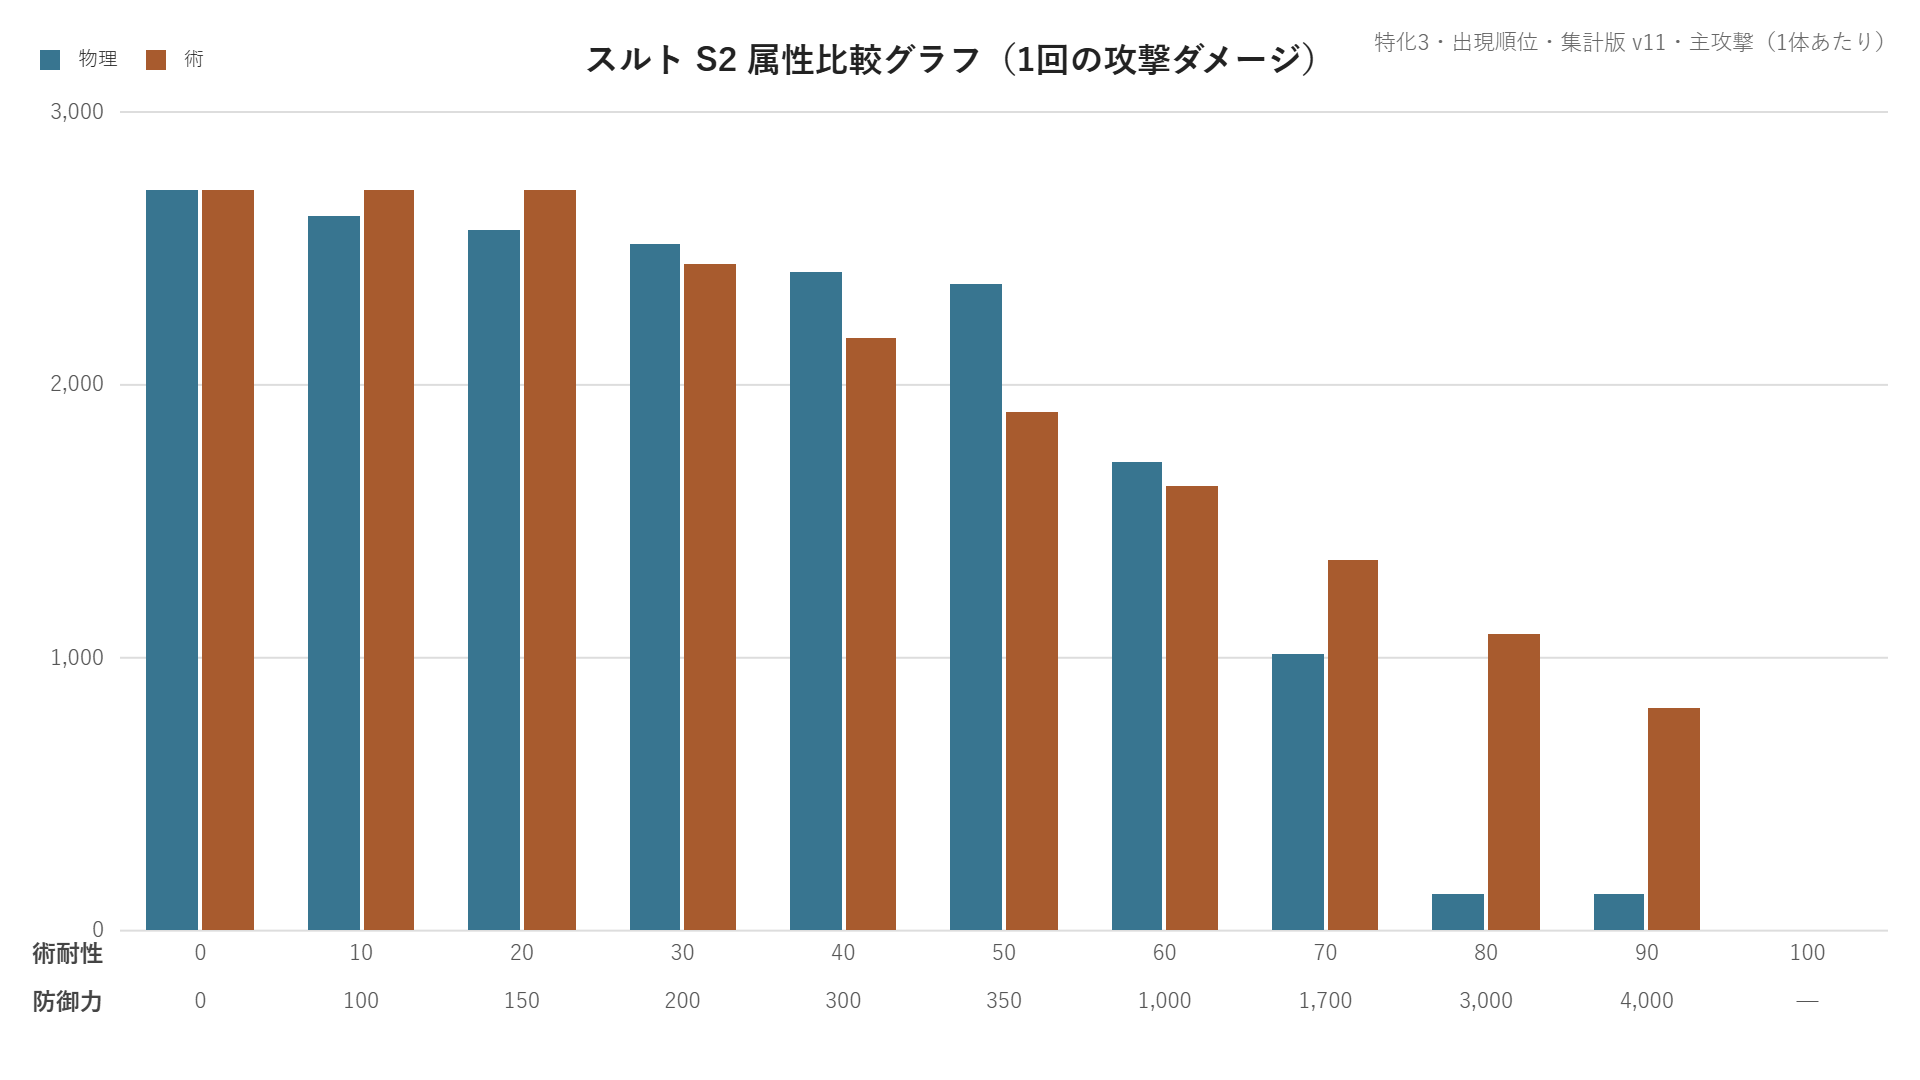
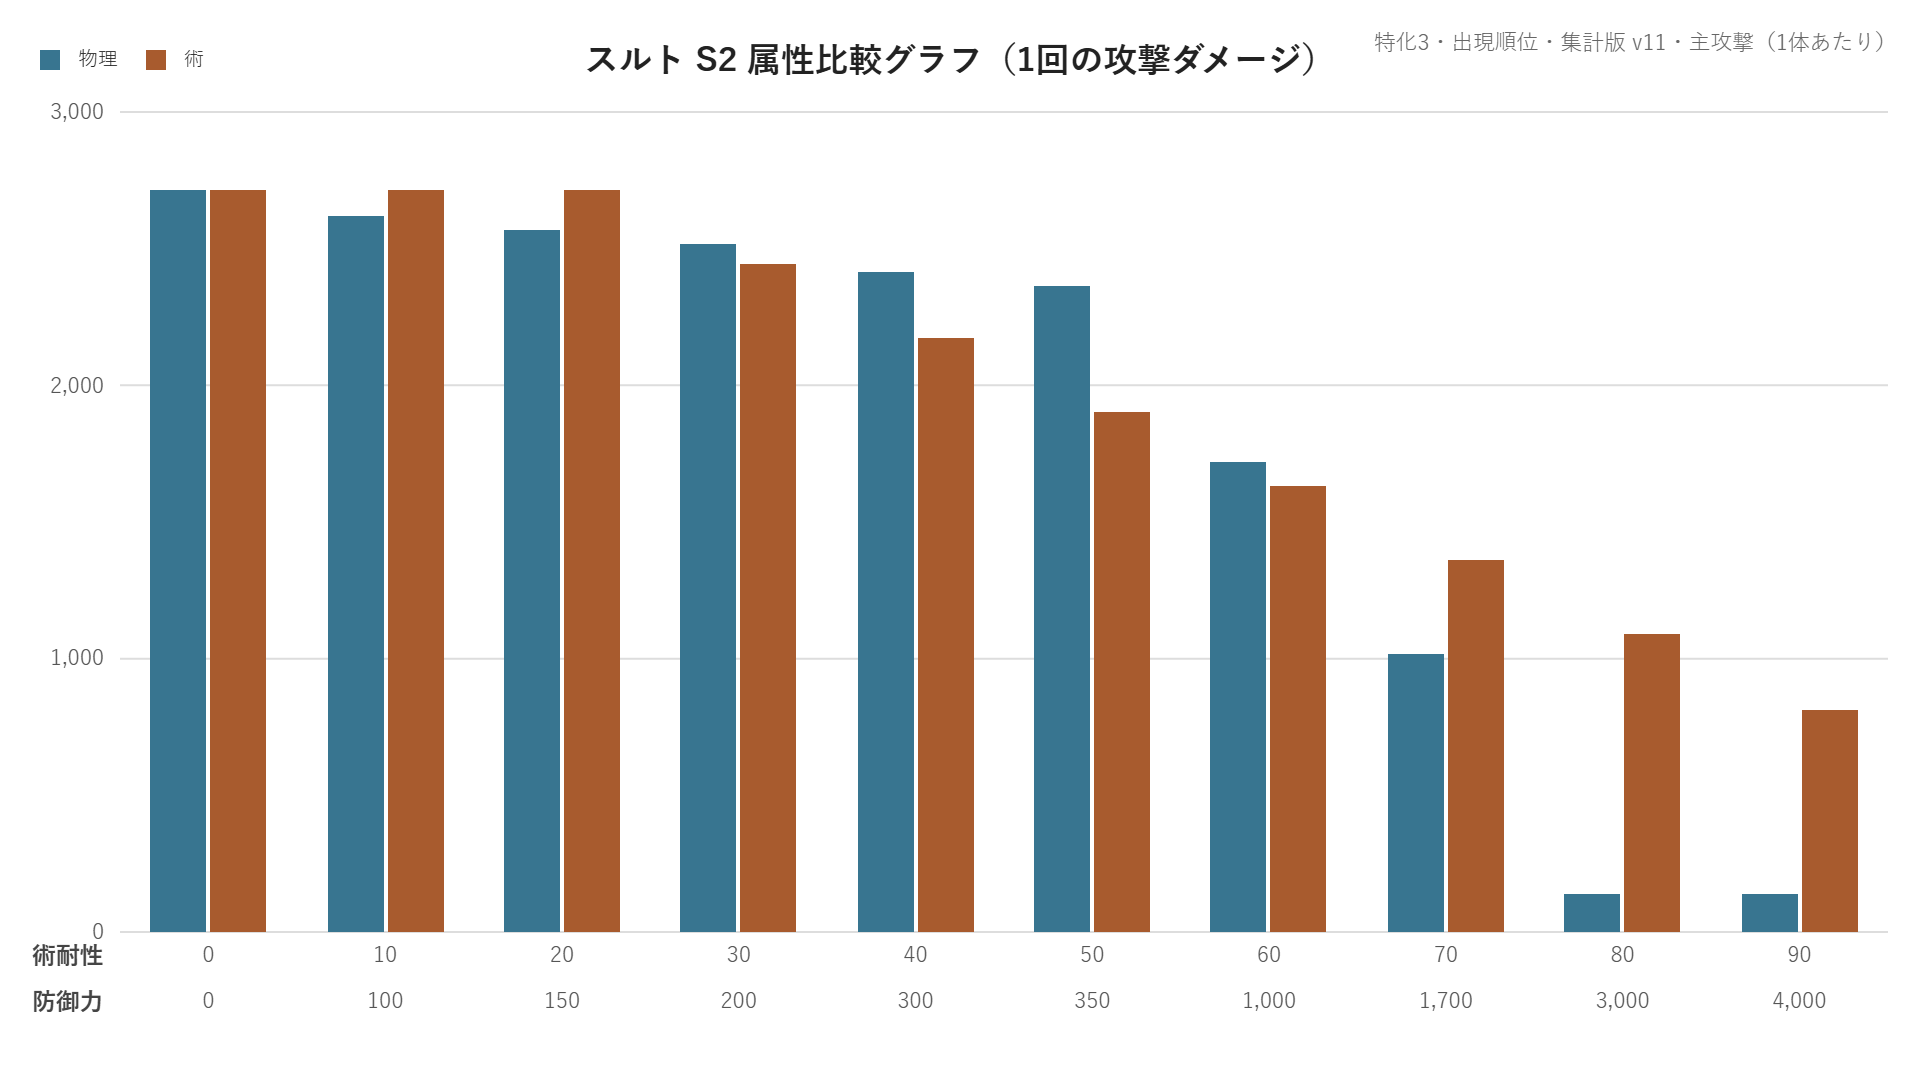
Omit unmatched resistance columns from DC3 charts

diff --git a/src/components/DamageCalculatorThreeAttributeRankChart.tsx b/src/components/DamageCalculatorThreeAttributeRankChart.tsx
@@ -35,12 +35,14 @@ export function DamageCalculatorThreeAttributeRankLegend({ chartType = 'line', f
   </ul>
 }
 
-function describeRow({ resistance, defense, physical, arts }: DamageThreeAttributeRankRow, showRatings = false) {
+type PairedRankRow = DamageThreeAttributeRankRow & { defense: number }
+
+function describeRow({ resistance, defense, physical, arts }: PairedRankRow, showRatings = false) {
   const resistanceRating = showRatings ? getEnemyStatRating('magicResistance', resistance) : null
   const defenseRating = showRatings ? getEnemyStatRating('defense', defense) : null
   return [
     ['術耐性', STAT.format(resistance) + (resistanceRating ? `（評価 ${resistanceRating}）` : '')],
-    ['防御力', defense === null ? '—' : STAT.format(defense) + (defenseRating ? `（評価 ${defenseRating}）` : '')],
+    ['防御力', STAT.format(defense) + (defenseRating ? `（評価 ${defenseRating}）` : '')],
     ['物理', physical === null ? '—' : DAMAGE.format(physical)],
     ['術', arts === null ? '—' : DAMAGE.format(arts)],
   ] as const
@@ -48,7 +50,7 @@ function describeRow({ resistance, defense, physical, arts }: DamageThreeAttribu
 
 function AttributeRankRatingRow({ label, stat, series, values, width }: {
   label: string; stat: RankBandStat; series: typeof ATTRIBUTES[number][0]
-  values: readonly (number | null)[]; width: number
+  values: readonly number[]; width: number
 }) {
   return <>
     <span className="damage-three-attribute-rank-chart-axis-label damage-three-attribute-rank-chart-rating-label"
@@ -57,13 +59,11 @@ function AttributeRankRatingRow({ label, stat, series, values, width }: {
       aria-hidden="true" focusable="false">
       <StatRankStrip bands={getColumnStatRankBands(stat, values)} left={0} right={width} top={0}
         height={RATING_ROW_HEIGHT} showTooltips={false} />
-      {values.map((value, index) => value === null && <text key={index} className="stat-rank-strip-label"
-        x={`${(index + 0.5) / values.length * 100}%`} y={RATING_ROW_HEIGHT / 2 + 4} textAnchor="middle">—</text>)}
     </svg>
   </>
 }
 
-export function DamageCalculatorThreeAttributeRankChart({ rows, chartType = 'line', showRatings = false, imageHeight }: {
+export function DamageCalculatorThreeAttributeRankChart({ rows: allRows, chartType = 'line', showRatings = false, imageHeight }: {
   rows: readonly DamageThreeAttributeRankRow[]
   chartType?: DamageThreeAttributeRankChartType
   showRatings?: boolean
@@ -71,6 +71,7 @@ export function DamageCalculatorThreeAttributeRankChart({ rows, chartType = 'lin
 }) {
   const plotRef = useRef<HTMLDivElement>(null)
   const [plotWidth, setPlotWidth] = useState(0)
+  const rows = allRows.filter((row): row is PairedRankRow => row.defense !== null)
   const hasRows = rows.length > 0
   useLayoutEffect(() => {
     const plot = plotRef.current
@@ -155,7 +156,7 @@ export function DamageCalculatorThreeAttributeRankChart({ rows, chartType = 'lin
         </div>
         <span className="damage-three-attribute-rank-chart-axis-label">防御力</span>
         <div className="damage-three-attribute-rank-chart-defense" aria-hidden="true">
-          {rows.map(row => <span key={row.resistance}>{row.defense === null ? '—' : STAT.format(row.defense)}</span>)}
+          {rows.map(row => <span key={row.resistance}>{STAT.format(row.defense)}</span>)}
         </div>
       </div>
     </div>

diff --git a/docs/chart-image/README.md b/docs/chart-image/README.md
@@ -291,9 +291,9 @@ const baseFilename = createChartImageFilename(prefix, parts)
 
 [DC3属性比較](../../src/components/DamageCalculatorThreeAttributePage.tsx)も共通フレームを使う。画面で選んだゲーム内評価の範囲、出現順位の折れ線、出現順位の集合棒を保存する。出現順位では術耐性の真下に対応する防御力を置き、集計版を画像とファイル名に記載する。ファイル名には折れ線か集合棒かも記載する。
 
-出現順位で「評価表示」をオンにすると、スルトS3・GGターゲット切替2と共通の [StatRankStrip](../../src/components/StatRankStrip.tsx) をグラフの上に高さ18pxの2段で表示し、段の間を2px空ける。術耐性の帯は術の橙、防御力の帯は物理の青を淡く敷く。帯の幅は出現順位の列数に合わせ、防御力が欠損した列も幅を保つ。保存画像も同じ評価帯を使い、オンのときだけ既定名に「評価表示」を加える。
+出現順位グラフの横軸には、対応する防御力がある術耐性を並べる。「評価表示」をオンにすると、スルトS3・GGターゲット切替2と共通の [StatRankStrip](../../src/components/StatRankStrip.tsx) をグラフの上に高さ18pxの2段で表示し、段の間を2px空ける。術耐性の帯は術の橙、防御力の帯は物理の青を淡く敷く。評価帯の幅は横軸に並ぶ列に合わせる。保存画像も同じ評価帯を使い、オンのときだけ既定名に「評価表示」を加える。
 
-スルトS2・特化3、昇進2 Lv.90、信頼100、敵1体で「防御力・術耐性無視を適用」をオンにする。「出現順位」、集計版v11、「グラフ」、「集合棒グラフ」を選び、縦横比16:9で保存すると[確認用PNG](examples/dc3-attribute-rank-bars-v11-16x9.png)を再生成できる。術耐性50の下に防御力350が並び、術耐性100は防御力が「—」で棒が空になることを確認する。
+スルトS2・特化3、昇進2 Lv.90、信頼100、敵1体で「防御力・術耐性無視を適用」をオンにする。「出現順位」、集計版v11、「グラフ」、「集合棒グラフ」を選び、縦横比16:9で保存すると[確認用PNG](examples/dc3-attribute-rank-bars-v11-16x9.png)を再生成できる。術耐性50の下に防御力350が並び、横軸が術耐性90・防御力4,000で終わることを確認する。
 
 ## 変更時の確認
 
